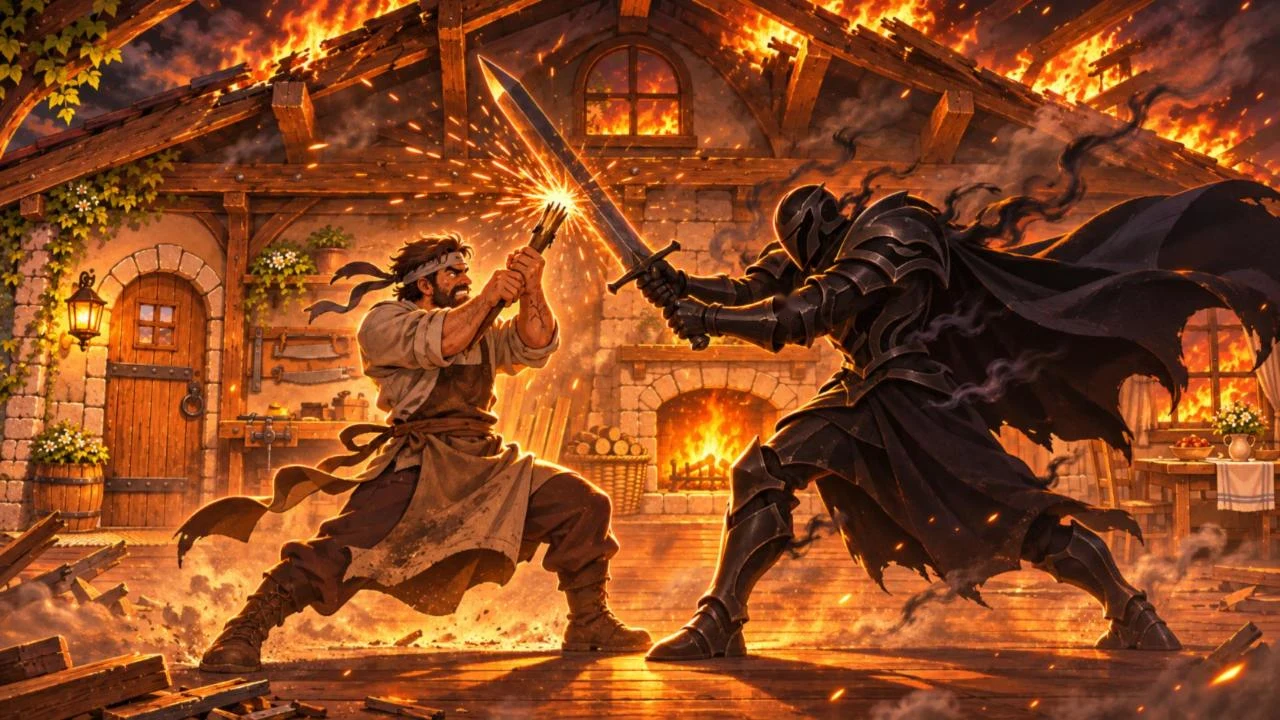
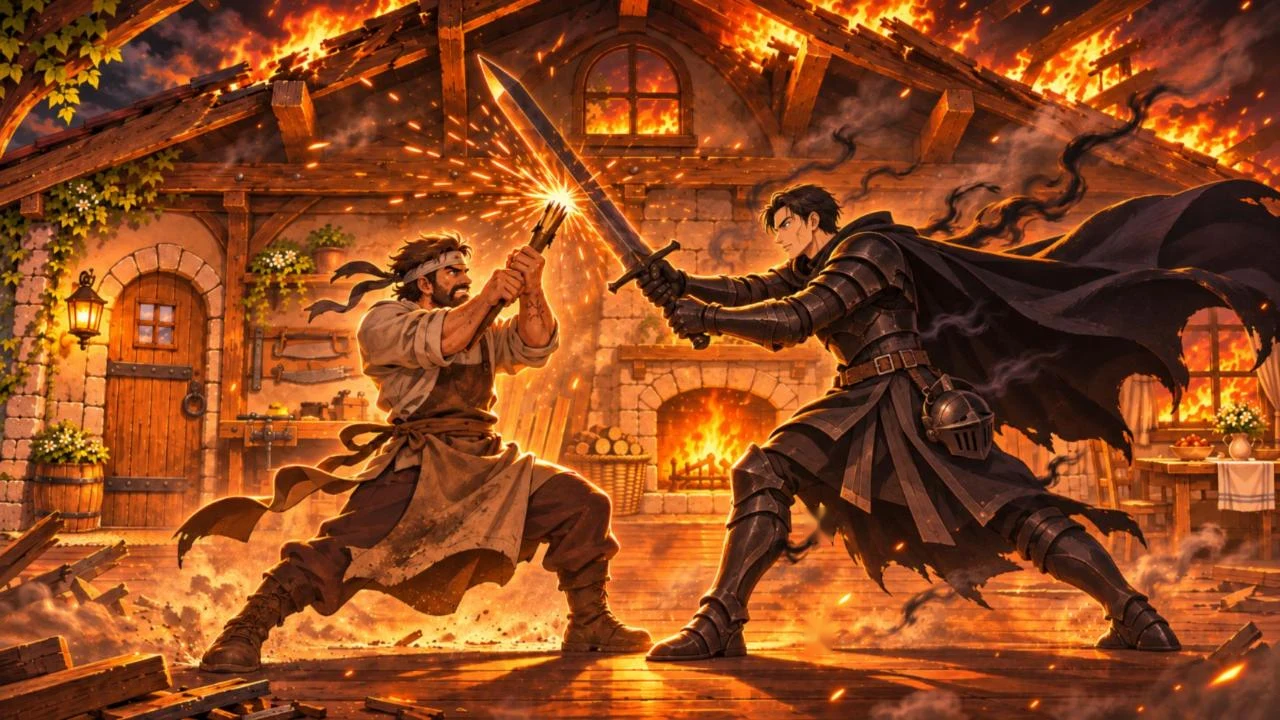
프롤로그: 얼굴이 보이는 간부 대치 컷으로 교체, 간부·습격자 초상화 등록 준비
Claude-Session: https://claude.ai/code/session_01W6D73M7pUg1TDAZy6DgM2B

diff --git a/games/autelia/js/prologue/data.js b/games/autelia/js/prologue/data.js
@@ -32,7 +32,7 @@ window.AU = window.AU || {};
   }
   // 추가 그림(2차 패키지, tools/build_prologue_art2.py): 장애물·이음 골조·초상화
   for (const f of ["obst_rock", "obst_log", "obst_burnt_beams", "joint_frame", "monument", "flagpole", "flag_0", "flag_1", "flag_2"]) AU.ASSETS["po_" + f] = { path: "assets/prologue/ob/" + f + ".webp", optional: true };
-  for (const f of ["pt_pro_hero_m", "pt_pro_hero_f", "pt_pro_father", "pt_pro_elder", "pt_pro_baker", "pt_pro_child", "pt_pro_hero_m_surprised", "pt_pro_father_smile", "pt_pro_farmer", "pt_pro_priest", "pt_pro_musician", "pt_pro_scribe", "pt_pro_traveler", "pt_pro_florist"]) AU.ASSETS[f] = { path: "assets/prologue/pt/" + f + ".webp", optional: true };
+  for (const f of ["pt_pro_hero_m", "pt_pro_hero_f", "pt_pro_father", "pt_pro_elder", "pt_pro_baker", "pt_pro_child", "pt_pro_hero_m_surprised", "pt_pro_father_smile", "pt_pro_farmer", "pt_pro_priest", "pt_pro_musician", "pt_pro_scribe", "pt_pro_traveler", "pt_pro_florist", "pt_pro_officer", "pt_pro_raider"]) AU.ASSETS[f] = { path: "assets/prologue/pt/" + f + ".webp", optional: true };
   AU.ASSETS.fx_fire = { path: "assets/prologue/fx/fire.webp", optional: true }; AU.ASSETS.fx_smoke = { path: "assets/prologue/fx/smoke.webp", optional: true };   // 불꽃 6프레임·연기 4프레임 스트립
   AU.PRO_GENDER = "m"; // 남(m)/여(f) 주인공 시트 선택(성별 선택 기능이 생기면 이 값만 바꿉니다)
   // 장면별 배치 좌표(그림이 바뀌면 여기만 고칩니다)
@@ -59,8 +59,8 @@ window.AU = window.AU || {};
     // portrait: 정식 초상화(2차 그림), alt: 정식 그림을 불러오지 못했을 때 쓰는 옛 초상화
     hero:   { name: "주인공", portrait: "pt_pro_hero_m", alt: "pt_player_male" },
     heroS:  { name: "주인공", portrait: "pt_pro_hero_m_surprised", alt: "pt_player_male" },     // 놀란 표정(여성형은 기본 표정으로 대체됨: Profile.apply)
-    officer: { name: "습격 간부", portrait: "" },
-    raider: { name: "습격자", portrait: "" },
+    officer: { name: "습격 간부", portrait: "pt_pro_officer" },
+    raider: { name: "습격자", portrait: "pt_pro_raider" },
     father: { name: "아버지", portrait: "pt_pro_father", alt: "pt_smith" },
     fatherS: { name: "아버지", portrait: "pt_pro_father_smile", alt: "pt_smith" },                // 미소
     vendor: { name: "빵을 나누는 주민", portrait: "pt_pro_baker", alt: "pt_baker" },
